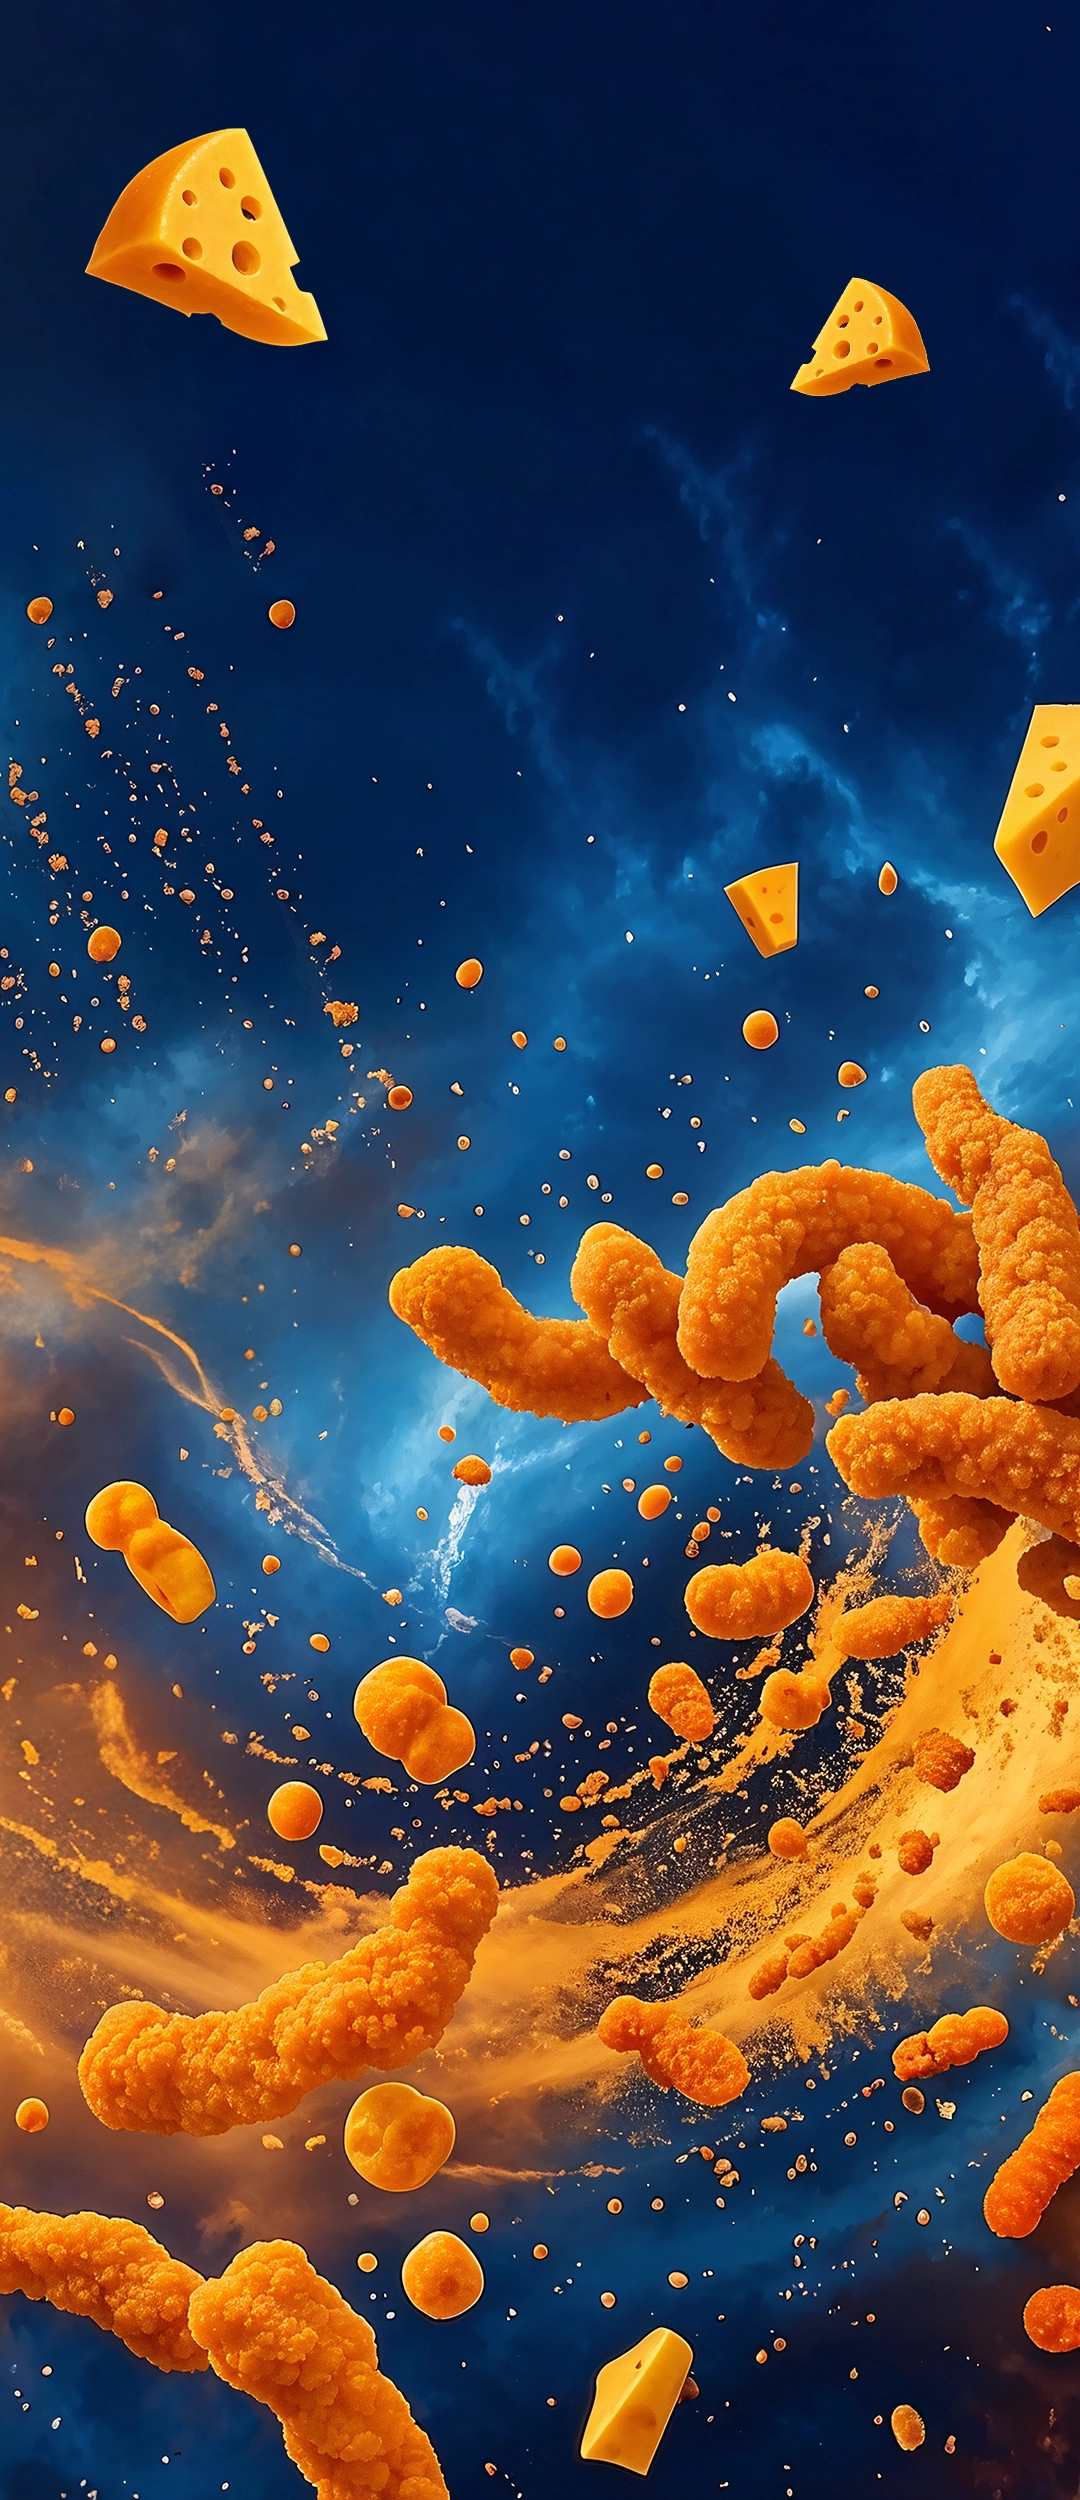
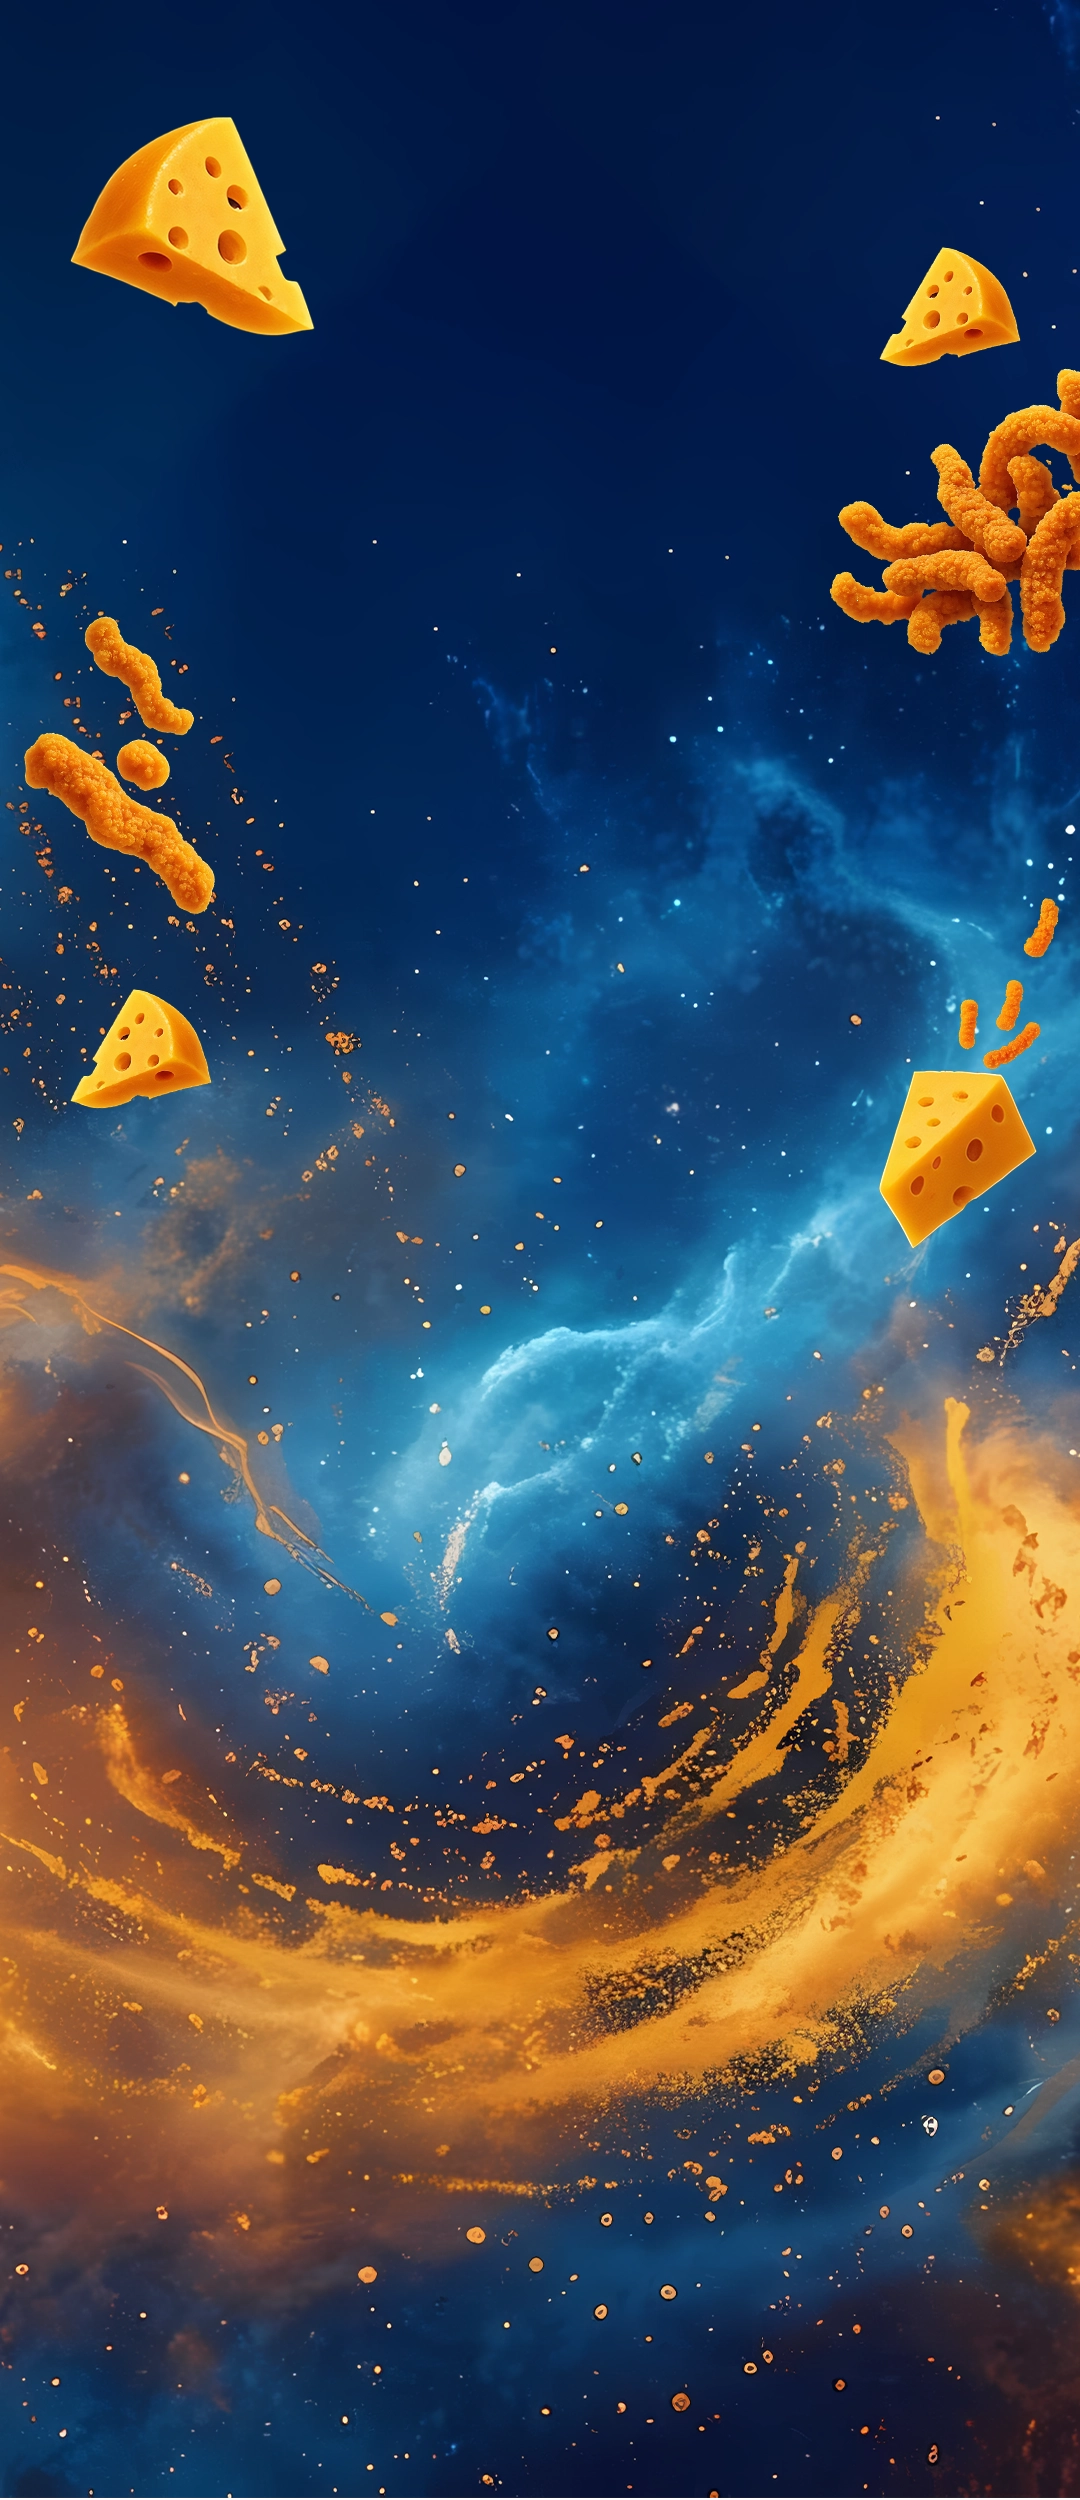
new

diff --git a/index.html b/index.html
@@ -58,7 +58,7 @@
       position: absolute; 
       inset: 0;
       /* background: linear-gradient(145deg, #1a0533 0%, #0d1b4b 60%, #0a0f1a 100%); */
-      background-image: url('https://i.ibb.co/nqJ5NSV4/background.webp');
+      background-image: url('https://i.ibb.co/gZF468dK/background.webp');
       background-size: cover;
       background-position: center;
       transition: background 0.5s ease;
@@ -118,7 +118,7 @@
       animation: fadeInDown 0.6s ease both;
     }
     .hero-logo img {
-      width: 90%;
+      width: 110%;
       max-width: 720px;
       height: auto;
       object-fit: contain;
@@ -291,86 +291,7 @@
       text-transform: uppercase;
     }
 
-    /* ─── Background Upload UI ─────────────────────────── */
-    .upload-fab {
-      position: absolute;
-      top: 14px; right: 14px;
-      z-index: 10;
-      width: 38px; height: 38px;
-      border-radius: 50%;
-      background: rgba(255,255,255,0.12);
-      border: 1px solid rgba(255,255,255,0.25);
-      backdrop-filter: blur(10px);
-      display: flex; align-items: center; justify-content: center;
-      cursor: pointer;
-      transition: background 0.2s ease, transform 0.2s ease;
-    }
-    .upload-fab:hover { background: rgba(255,255,255,0.22); transform: scale(1.1); }
-    .upload-fab svg { width: 18px; height: 18px; fill: #fff; }
 
-    .upload-panel {
-      position: absolute;
-      top: 60px; right: 14px;
-      z-index: 10;
-      background: rgba(20, 20, 35, 0.88);
-      backdrop-filter: blur(20px);
-      border: 1px solid rgba(255,255,255,0.15);
-      border-radius: 16px;
-      padding: 16px;
-      width: 200px;
-      display: none;
-      flex-direction: column;
-      gap: 10px;
-      box-shadow: 0 16px 40px rgba(0,0,0,0.6);
-      animation: slideDown 0.2s ease;
-    }
-    .upload-panel.open { display: flex; }
-
-    @keyframes slideDown {
-      from { opacity: 0; transform: translateY(-8px); }
-      to   { opacity: 1; transform: translateY(0); }
-    }
-
-    .upload-panel label {
-      font-size: 0.75rem;
-      color: rgba(255,255,255,0.55);
-      font-weight: 400;
-      letter-spacing: 0.05em;
-      text-transform: uppercase;
-    }
-
-    .upload-btn {
-      display: flex; align-items: center; gap: 8px;
-      padding: 10px 12px;
-      background: rgba(255,255,255,0.07);
-      border: 1px dashed rgba(255,255,255,0.25);
-      border-radius: 10px;
-      color: #fff;
-      font-family: 'Outfit', sans-serif;
-      font-size: 0.82rem;
-      font-weight: 500;
-      cursor: pointer;
-      transition: background 0.2s ease;
-    }
-    .upload-btn:hover { background: rgba(255,255,255,0.14); }
-    .upload-btn svg { width: 16px; height: 16px; fill: var(--accent); flex-shrink: 0; }
-
-    #bg-file-input { display: none; }
-
-    .reset-btn {
-      padding: 8px 12px;
-      background: rgba(255,80,80,0.12);
-      border: 1px solid rgba(255,80,80,0.25);
-      border-radius: 10px;
-      color: rgba(255,120,120,0.9);
-      font-family: 'Outfit', sans-serif;
-      font-size: 0.8rem;
-      font-weight: 500;
-      cursor: pointer;
-      transition: background 0.2s ease;
-      text-align: center;
-    }
-    .reset-btn:hover { background: rgba(255,80,80,0.22); }
 
 
   </style>
@@ -436,73 +357,5 @@
   </footer>
 
 </div>
-
-<script>
-  const uploadFab   = document.getElementById('uploadFab');
-  const uploadPanel = document.getElementById('uploadPanel');
-  const chooseBtn   = document.getElementById('chooseImgBtn');
-  const fileInput   = document.getElementById('bg-file-input');
-  const resetBtn    = document.getElementById('resetBgBtn');
-  const bgLayer     = document.getElementById('bgLayer');
-
-  // Toggle panel
-  uploadFab.addEventListener('click', (e) => {
-    e.stopPropagation();
-    uploadPanel.classList.toggle('open');
-  });
-
-  // Close panel on outside click
-  document.addEventListener('click', (e) => {
-    if (!uploadPanel.contains(e.target) && e.target !== uploadFab) {
-      uploadPanel.classList.remove('open');
-    }
-  });
-
-  // Trigger file input
-  chooseBtn.addEventListener('click', () => fileInput.click());
-
-  // Handle file selection
-  fileInput.addEventListener('change', (e) => {
-    const file = e.target.files[0];
-    if (!file) return;
-    const reader = new FileReader();
-    reader.onload = (ev) => {
-      bgLayer.style.backgroundImage = `url('${ev.target.result}')`;
-      bgLayer.style.backgroundSize  = 'cover';
-      bgLayer.style.backgroundPosition = 'center';
-      uploadPanel.classList.remove('open');
-    };
-    reader.readAsDataURL(file);
-    fileInput.value = '';
-  });
-
-  // Reset background to default
-  const DEFAULT_BG = "url('assets/background.webp')";
-  resetBtn.addEventListener('click', () => {
-    bgLayer.style.backgroundImage = DEFAULT_BG;
-    bgLayer.style.backgroundSize  = 'cover';
-    bgLayer.style.backgroundPosition = 'center';
-    uploadPanel.classList.remove('open');
-  });
-
-  // Drag & Drop onto card
-  const card = document.getElementById('card');
-  card.addEventListener('dragover', (e) => { e.preventDefault(); card.style.outline = '2px dashed rgba(180,124,255,0.7)'; });
-  card.addEventListener('dragleave', ()  => { card.style.outline = ''; });
-  card.addEventListener('drop', (e) => {
-    e.preventDefault();
-    card.style.outline = '';
-    const file = e.dataTransfer.files[0];
-    if (file && file.type.startsWith('image/')) {
-      const reader = new FileReader();
-      reader.onload = (ev) => {
-        bgLayer.style.backgroundImage = `url('${ev.target.result}')`;
-        bgLayer.style.backgroundSize  = 'cover';
-        bgLayer.style.backgroundPosition = 'center';
-      };
-      reader.readAsDataURL(file);
-    }
-  });
-</script>
 </body>
 </html>